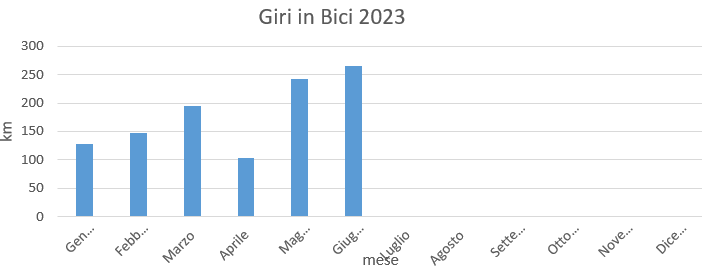
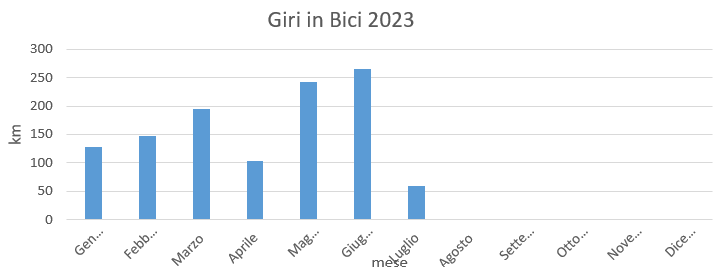
Add files via upload

diff --git a/Statistiche/Statistiche2023.html b/Statistiche/Statistiche2023.html
@@ -47,43 +47,43 @@
         <tr>
             <td>Gennaio</td>
             <td>127</td>
-            <td> 11,77%</td>
+            <td> 11,15%</td>
         </tr>
 
         <tr>
             <td>Febbraio</td>
             <td>148</td>
-            <td>13,72%</td>
+            <td>12,99%</td>
         </tr>
 
         <tr>
             <td>Marzo</td>
             <td>194</td>
-            <td>17,98%</td>
+            <td>17,%</td>
         </tr>
 
         <tr>
             <td>Aprile</td>
             <td>103</td>
-            <td>9,55%</td>
+            <td>9,04%</td>
         </tr>
 
         <tr>
             <td>Maggio</td>
             <td>242</td>
-            <td>22,43%</td>
+            <td>21,25%</td>
         </tr>
 
         <tr>
             <td>Giugno</td>
             <td>265</td>
-            <td>24,56%</td>
+            <td>23,27%</td>
         </tr>
 
         <tr>
             <td>Luglio</td>
-            <td></td>
-            <td></td>
+            <td>60</td>
+            <td>5,27%</td>
         </tr>
 
     </table>
@@ -94,10 +94,10 @@
 
     <br>
     <div class="colore">
-        <p>totale km 1079
+        <p>totale km 1139
             <img src="../Icone/traguardo.png">
         </p>
-        <p>km medi percorsi 56,79 km </p>
+        <p>km medi percorsi 56,95 km </p>
     </div>
     <br>
 

diff --git a/Statistiche.html b/Statistiche.html
@@ -83,7 +83,7 @@
             </td>
 
             <td>
-                24,70%
+                24,50%
             </td>
 
         </tr>
@@ -99,7 +99,7 @@
             </td>
 
             <td>
-                26,30%
+                26,10%
             </td>
         </tr>
 
@@ -113,7 +113,7 @@
             </td>
 
             <td>
-                38,20%
+                38,00%
             </td>
 
         </tr>
@@ -124,11 +124,11 @@
             </td>
 
             <td>
-                1079
+                1139
             </td>
 
             <td>
-                10,80%
+                11,40%
             </td>
 
         </tr>
@@ -143,10 +143,11 @@
 
     <div class="colore">
         <p>
-            totale km fatti 9957
+            totale km fatti 10017
             <img src="Icone/traguardo.png">
         </p>
-        <p>km medi percorsi 69,63 km </p>
+
+        <p>km medi percorsi 69,56 km </p>
 
     </div>
     <br>

diff --git a/Estate/Estate2023.html b/Estate/Estate2023.html
@@ -55,16 +55,26 @@
             <td>62</td>
             <td>km</td>
         </tr>
+        
+        <tr>
+            <td>1 luglio</td>
+            <td>2</td>
+            <td><a
+                    href="https://www.komoot.com/it-it/tour/1192031128?ref=wtd&share_token=aAbmBoHf6FZONGuiaYDYpvErGITO1vpM6mh59FDSSkCEds93vq">
+                    Basiliano + Ariis</a></td>
+            <td>60</td>
+            <td>km</td>
+        </tr>
 
     </table>
 
 
     <br>
     <div class="colore">
-        <p> totale km 62
+        <p> totale km 122
             <img src="../Icone/traguardo.png">
         </p>
-        <p>km medi percorsi 62</p>
+        <p>km medi percorsi 61</p>
     </div>
 </body>
 

diff --git a/Giri.html b/Giri.html
@@ -222,11 +222,11 @@
     <br>
     <div class="colore">
         <p>
-            totale km fatti 9957
+            totale km fatti 10017
             <img src="Icone/traguardo.png">
         </p>
 
-        <p>km medi percorsi 69,63 km </p>
+        <p>km medi percorsi 69,56 km </p>
         
     </div>
 

diff --git a/Estate.html b/Estate.html
@@ -103,7 +103,7 @@
                 </td>
     
                 <td>
-                    62
+                    122
                 </td>
             </tr>
 
